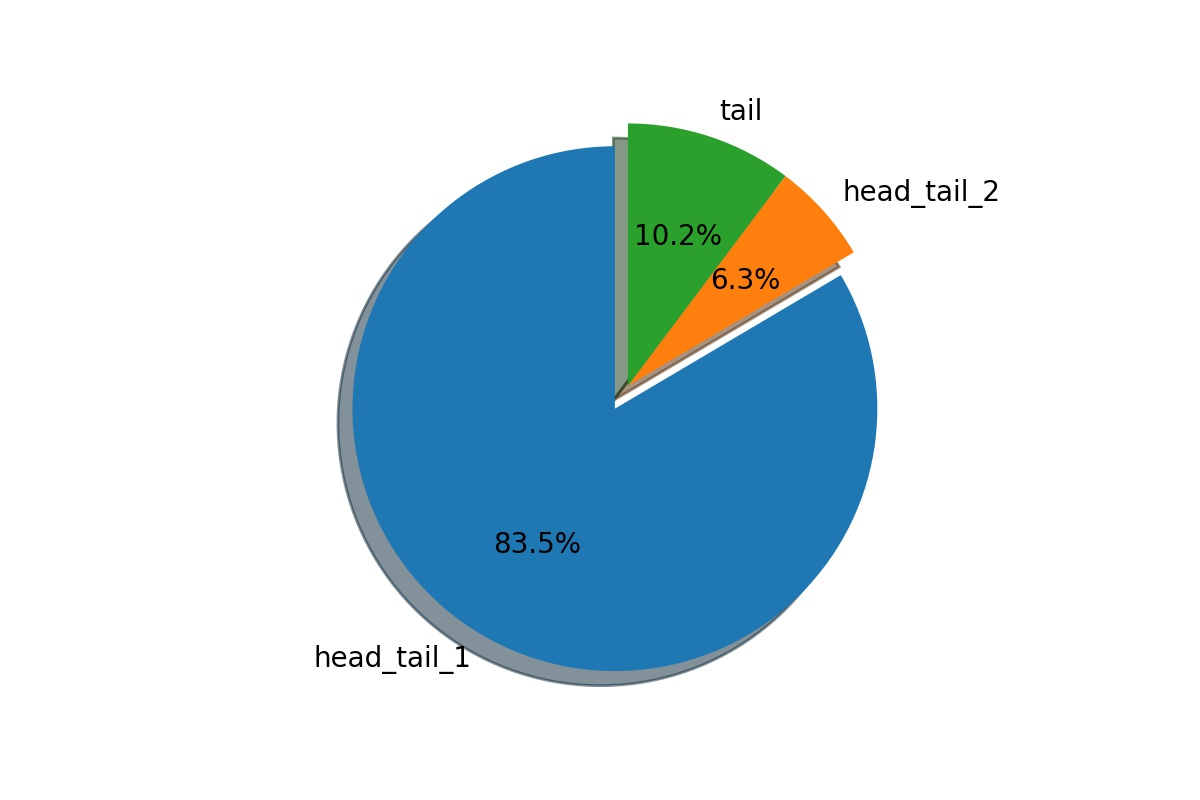
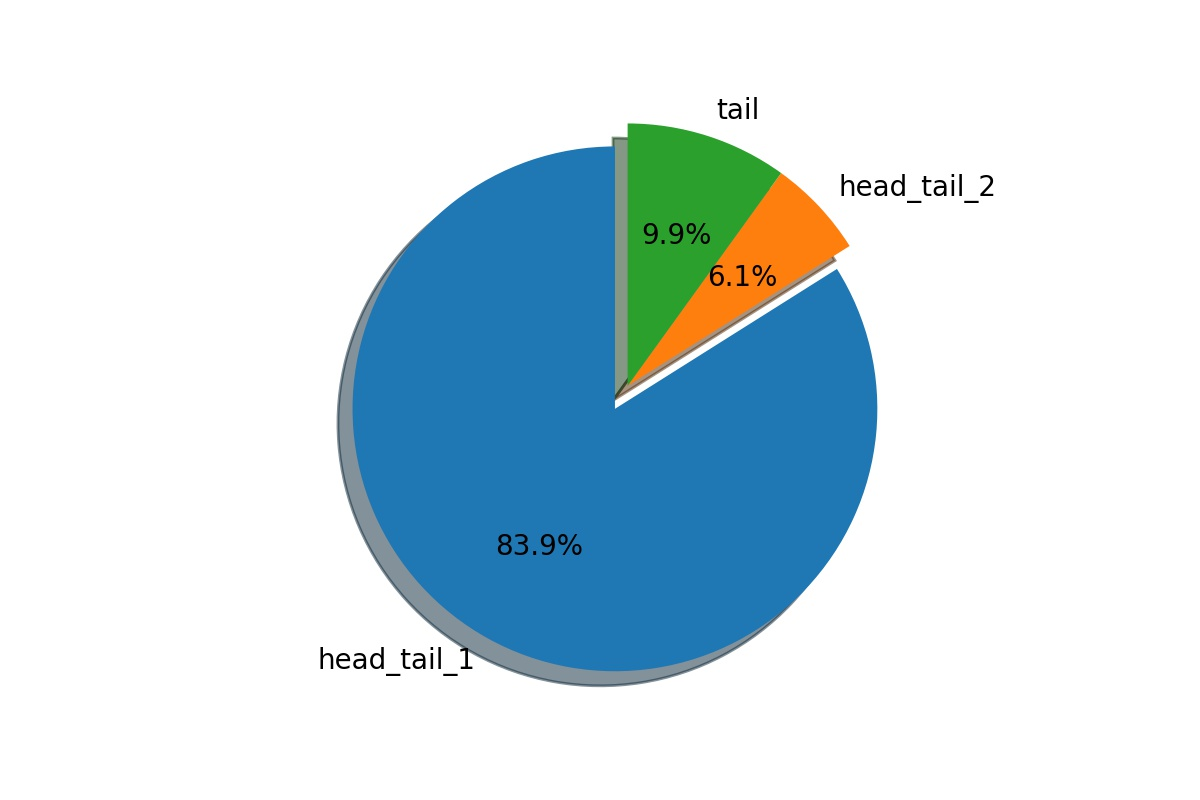
update dev-blog

diff --git a/_posts/2017-07-20-科幻小說鍊成計畫.md b/_posts/2017-07-20-科幻小說鍊成計畫.md
@@ -592,11 +592,13 @@ Git submodules重點如下：
 觀察解析過後最小的正常文檔`Longevity.txt (3.34 KB)`後，發現阿就真的這麼短，想要瞬間變30CM都優秀鄉民也是很困難的。
 由於異常文檔所佔比例很低，所以決定直接將這13個檔案捨去，得到1327個`.txt`文檔。
 
-### 文章解剖
+### 文章大部分解
+> 『始臣之解牛之時，所見無非全牛者﹔三年之后，未嘗見全牛也﹔方今之時，臣以神遇而不以目視，官知止而神欲行。』 - 庖丁解牛
+
 趁周末的時間重新跑了爬蟲程式、文檔轉換解析，接著就是要將每分文檔分為`metadata`跟`content`兩大部分。
 首先還是老樣子，使用人眼分析器大致可觀察到文檔格式分為兩類，一類是**頭尾派**、另一類是**結尾派**(:D)。
-**頭尾派**的`metadata`都置於文章的頭尾，而**結尾派**的`metadata`僅存在文章結尾部分，要如何正確得判斷這兩派並正確分割`metadata`跟`content`是這部分程式主要處理的問題。
-敝人認為其實`metadata`其實包含一些有特殊意義的字串，其中**Project Gutenberg**是最有系統的，他是屬於**頭尾派**的典型，我們觀察文檔`A-Bottle-of-Old-Wine.txt`。
+**頭尾派** 的`metadata`都置於文章的頭尾，而 **結尾派** 的`metadata`僅存在文章結尾部分，要如何正確得判斷這兩派並正確分割`metadata`跟`content`是這部分程式主要處理的問題。
+敝人認為其實`metadata`其實包含一些有特殊意義的字串，其中 **Project Gutenberg** 是最有系統的，他是屬於**頭尾派**的典型，我們觀察文檔`A-Bottle-of-Old-Wine.txt`。
 {% highlight text %}
     b'\n\n  
     A Bottle of Old Wine, by Richard O. Lewis
@@ -616,7 +618,7 @@ Git submodules重點如下：
     ...
 {% endhighlight%}
 
-但是仍有其他的**頭尾派**的格式不如**Project Gutenberg**般明顯，例如我們觀察的文檔`Accelerando.txt`。
+但是仍有其他的 **頭尾派** 的格式不如 **Project Gutenberg** 般明顯，例如我們觀察的文檔`Accelerando.txt`。
 {% highlight text %}
     b'\n\n  
     Accelerando
@@ -667,7 +669,7 @@ Git submodules重點如下：
 2. 若文檔前20行內還沒進入本文(20行內包含任一特殊字串 `author`, `title`, `license`, `acknowledgements`, ...)，則歸類為 **head_tail_2**
 3. 其他都被分類到 **tail**
 
-先觀察數量分布情形，簡單寫一個統計的程式，接著檢查**head_tail_2**、**tail**兩類中是否有例外。
+先觀察數量分布情形，簡單寫一個統計的程式，接著檢查 **head_tail_2** 、**tail** 兩類中是否有例外。
 {% highlight python %}
     def analyze_metadata_type(txt_dir, result_dir):
         """Analyze Metadata Type
@@ -740,10 +742,18 @@ Git submodules重點如下：
 {% endhighlight %}
 
 **統計數據**
-- Type 1 (Head-Tail-1): 1108
-- Type 2 (Head-Tail-2): 83
-- Type 3 (Tail): 136
+- Type 1 (Head-Tail-1): 1114
+- Type 2 (Head-Tail-2): 81
+- Type 3 (Tail): 132
 
 ![Metadata類型比例](/assets/images/計畫/科幻小說鍊成計畫/metadata_type_pie_chart.jpg){: .align-center  height="300px" width="200px"}
+
+依照Divide-and-Conquer的概念，我們先對 **head_tail_1** 進行處理，再考慮其他的部分...
+經過了一整個下午的觀察，發現根本沒有什麼Type 1、2、3之分，只有分 **Project Gutenberg** 跟 **其他** 這兩類。
+而且 **Project Gutenberg** 內部的格式還不統一，總有些例外以及多本書合集的現象，搞得我一個頭兩個大，我只能盡量先以一些人為的Rule來做初步的切割，但是又感覺Rule太過於主觀，應該要多參考其他文獻的處理方法。
+由於Rule制定是依照文檔格式case-by-case的，所以就不丟上來說明了，有興趣有閒時間再慢慢修改[程式碼](https://github.com/KodeWorker/NovelAlchemist/blob/master/text_regularization/metadata_extractor.py)。
+依照目前大致切出來的文章`content`其實還是有殘留一些非語句的字串，希望是將全部文章依照句子經行重整，之後再去頭去尾過濾後之後應該會是比較完美的結果。
+
+### 文章細部分解
 
 (以下待續...)
